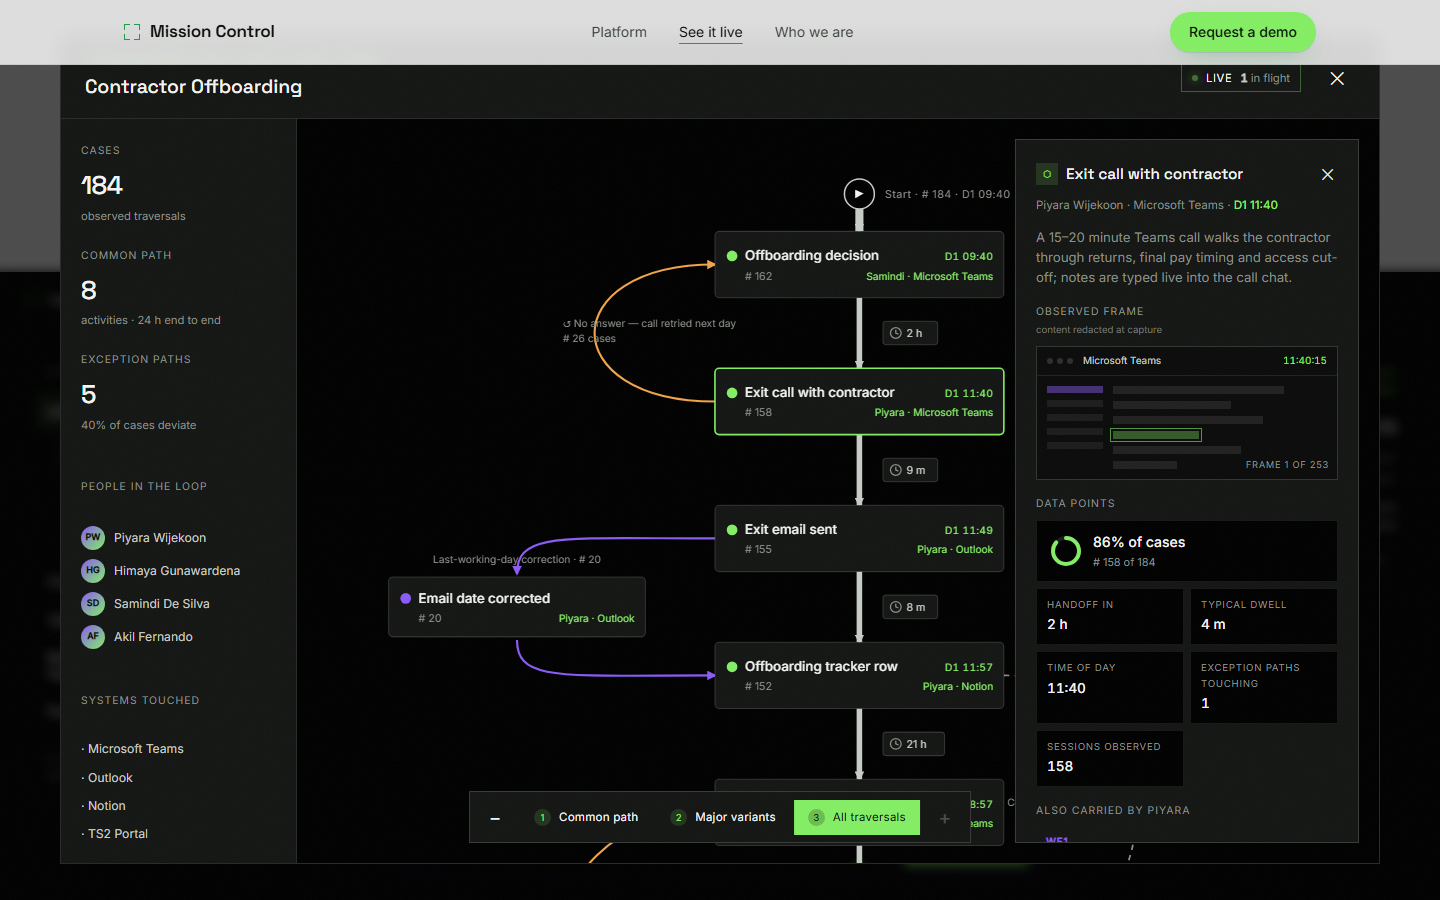
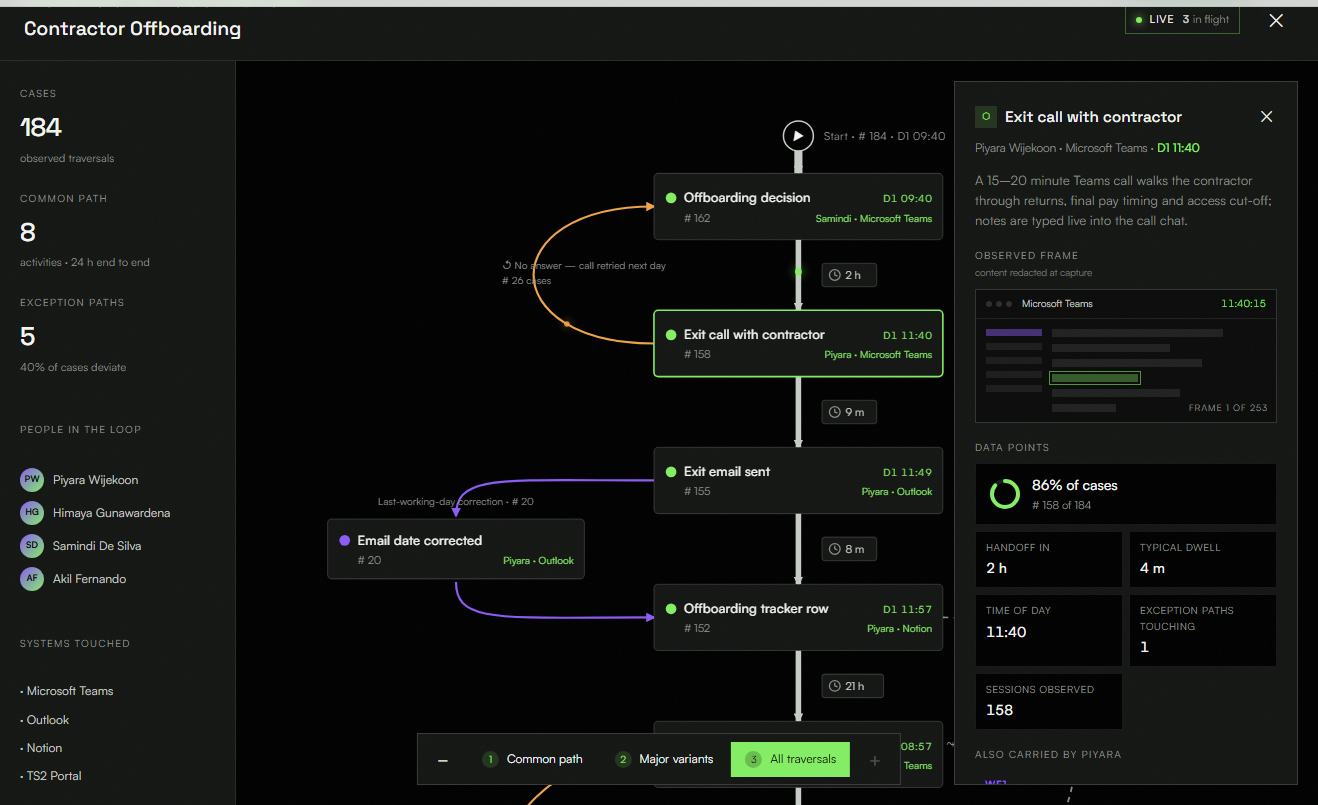
Round-13 evaluator fixes
- Lighthouse beam relit (brighter stops, a resting second beam, lamp glow);
  lamp is round
- Preview is a clean product frame with no site nav in it
- Hero window carries a small key; department discs match across both maps
- Deep-dive: bridge captions and role/tool labels join the collision pass
- Problem-card annotation moved off the tool boxes; Platform dead bands closed
- Scan scene names real systems and draws the hand-offs between them;
  "predicted deviation" no longer clips at the panel edge
- Founder photos vignette into the paper card
- See it live sub-line always shown

diff --git a/src/styles.css b/src/styles.css
@@ -197,8 +197,9 @@ body[data-view] main, body[data-view] footer { display: none; }
 }
 .view-back:hover { color: var(--accent-deep); }
 .view-foot { border-top: 1px solid var(--border); padding: 40px 0 64px; text-align: center; }
-#platform .platform-block:first-child { border-top: 0; padding-top: 48px; }
-#platform #trust { margin-top: 40px; }
+#platform .platform-block:first-child { border-top: 0; padding-top: 16px; }
+#platform .view-head .section-sub { margin-bottom: 0; }
+#platform #trust { margin-top: 8px; padding-top: var(--sec-pad-tight); }
 #about.view .story { margin-top: 0; }
 #about.view .view-foot { margin-top: 0; }
 
@@ -483,13 +484,16 @@ body[data-view] main, body[data-view] footer { display: none; }
 .beam-wrap { position: absolute; left: 50%; top: 34%; width: 0; height: 0; }
 .beam { position: absolute; left: 0; top: 0; width: 700px; height: 2px; transform-origin: 0 50%; animation: beam-rotate 9s linear infinite; }
 .beam::before {
-  content: ""; position: absolute; inset: -60px 0;
+  content: ""; position: absolute; inset: -80px 0;
   background: conic-gradient(from 90deg at 0% 50%,
-    transparent 0deg, rgba(132,238,100,0) 160deg, rgba(132,238,100,0.35) 172deg,
-    rgba(217,72,174,0.45) 178deg, rgba(139,92,246,0.55) 181deg, rgba(64,209,190,0.4) 186deg,
-    rgba(132,238,100,0.2) 194deg, transparent 202deg);
+    transparent 0deg, rgba(132,238,100,0) 150deg, rgba(132,238,100,0.55) 170deg,
+    rgba(217,72,174,0.6) 178deg, rgba(139,92,246,0.8) 181deg, rgba(64,209,190,0.6) 186deg,
+    rgba(132,238,100,0.35) 198deg, transparent 212deg);
 }
-.beam::after { content: ""; position: absolute; left: -40px; top: -40px; width: 80px; height: 80px; border-radius: 50%; background: radial-gradient(circle, rgba(132,238,100,0.5), transparent 70%); }
+.beam::after { content: ""; position: absolute; left: -60px; top: -60px; width: 120px; height: 120px; border-radius: 50%; background: radial-gradient(circle, rgba(132,238,100,0.7), transparent 70%); }
+/* a second, resting beam so there is always light in frame */
+.beam-wrap::after { content: ""; position: absolute; left: 0; top: 0; width: 700px; height: 2px; transform: rotate(150deg); transform-origin: 0 50%; box-shadow: 0 0 60px 24px rgba(132,238,100,0.18), 0 0 120px 40px rgba(139,92,246,0.12); }
+.lighthouse-stage::before { content: ""; position: absolute; inset: auto 0 0 0; height: 60%; background: radial-gradient(ellipse 60% 70% at 50% 100%, rgba(132,238,100,0.22), transparent 70%); pointer-events: none; }
 @keyframes beam-rotate { to { transform: rotate(360deg); } }
 .monolith {
   position: relative; width: 86px; height: 66%;
@@ -500,8 +504,8 @@ body[data-view] main, body[data-view] footer { display: none; }
   border: 1px solid rgba(255,255,255,0.18); border-bottom: 0;
 }
 .monolith::before {
-  content: ""; position: absolute; top: -7px; left: 50%; width: 10px; height: 10px; transform: translateX(-50%);
-  background: var(--accent-bright); box-shadow: 0 0 18px 4px rgba(132,238,100,0.55); animation: lamp-pulse 3s ease-in-out infinite;
+  content: ""; position: absolute; top: -8px; left: 50%; width: 12px; height: 12px; border-radius: 50%; transform: translateX(-50%);
+  background: var(--accent-bright); box-shadow: 0 0 22px 6px rgba(132,238,100,0.65); animation: lamp-pulse 3s ease-in-out infinite;
 }
 @keyframes lamp-pulse { 50% { box-shadow: 0 0 26px 8px rgba(132,238,100,0.75); } }
 .lighthouse-caption { position: absolute; left: 24px; bottom: 20px; font-size: 1.24rem; max-width: 16ch; line-height: 1.28; font-family: var(--font-display); color: #dfe3dc; z-index: 2; }
@@ -693,7 +697,6 @@ body[data-view] main, body[data-view] footer { display: none; }
 #try .try-head .section-h { max-width: 32ch; min-height: 1.1em; font-size: clamp(1.2rem, 1.9vw, 1.6rem); margin-bottom: 4px; }
 #try .try-head .section-sub { max-width: 96ch; min-height: 2.8em; font-size: 0.82rem; line-height: 1.4; } /* reserves two lines so the typed text never reflows the atlas */
 #try .try-head .view-back { align-self: center; margin-bottom: 4px; font-size: 0.74rem; }
-@media (max-height: 760px) { #try .try-head .section-sub, #try .try-head .view-back { display: none; } }
 .tw-caret { display: inline-block; width: 2px; height: 0.95em; background: var(--accent); margin-left: 3px; vertical-align: -0.12em; animation: tw-blink 0.9s steps(1) infinite; }
 @keyframes tw-blink { 50% { opacity: 0; } }
 .villain-card h3 { font-size: 1.35rem; color: var(--text-hi); }
@@ -712,6 +715,10 @@ body[data-view] main, body[data-view] footer { display: none; }
 .module-panel .panel-tag i { width: 6px; height: 6px; border-radius: 50%; background: var(--accent-bright); box-shadow: 0 0 8px var(--accent-bright); animation: atlas-pulse 2.2s infinite; }
 .module-panel .panel-hint { position: absolute; top: 16px; right: 18px; font-size: 0.7rem; color: var(--text-lo); pointer-events: none; }
 .module-panel .preview-btn { bottom: 18px; }
+/* a tiny key along the window's bottom edge */
+.panel-key { position: absolute; left: 18px; bottom: 14px; display: flex; gap: 14px; font-size: 0.66rem; color: var(--text-lo); letter-spacing: 0.03em; pointer-events: none; }
+.panel-key span { display: inline-flex; align-items: center; gap: 6px; }
+.panel-key i { width: 8px; height: 8px; border-radius: 50%; display: inline-block; }
 .module-copy .section-h { margin-bottom: 14px; }
 .module-copy .lede { font-size: 1.05rem; color: var(--text-mid); margin-bottom: 26px; max-width: 44ch; }
 
@@ -762,12 +769,16 @@ body[data-view] main, body[data-view] footer { display: none; }
   border: 1px solid var(--border-strong);
   background: var(--bg-2);
 }
+.team-photo { border: 0; background: transparent; }
 .team-photo img {
   display: block;
   width: 100%; height: 100%;
   object-fit: cover;
   object-position: 50% 14%;
   filter: saturate(0.9);
+  /* studio-black backgrounds fade into the paper card instead of sitting as a dark slab */
+  -webkit-mask-image: radial-gradient(ellipse 78% 86% at 50% 42%, #000 58%, transparent 100%);
+  mask-image: radial-gradient(ellipse 78% 86% at 50% 42%, #000 58%, transparent 100%);
 }
 .team-copy h4 { font-family: var(--font-display); font-size: 1.2rem; font-weight: 500; margin: 6px 0 4px; }
 .team-role { font-size: 0.75rem; letter-spacing: 0.12em; text-transform: uppercase; color: var(--accent-deep); margin-bottom: 14px; }

diff --git a/src/main.js b/src/main.js
@@ -294,9 +294,9 @@ const ease = (t) => 1 - Math.pow(1 - Math.min(Math.max(t, 0), 1), 3);
   const OFFPATH = [[1,4],[3,6],[6,7],[5,9]];
 
   const workPanels = [
-    { x: 0.04, y: 0.08, w: 0.4, h: 0.84, name: 'intake email · 2m' },
-    { x: 0.5, y: 0.08, w: 0.46, h: 0.4, name: 'matter opened' },
-    { x: 0.5, y: 0.56, w: 0.46, h: 0.36, name: 'draft v3' },
+    { x: 0.04, y: 0.08, w: 0.4, h: 0.84, name: 'Outlook · intake email · 2 m' },
+    { x: 0.5, y: 0.08, w: 0.46, h: 0.4, name: 'Clio · matter opened · 9 m' },
+    { x: 0.5, y: 0.56, w: 0.46, h: 0.36, name: 'Word · draft v3 · 41 m' },
   ];
 
   function nodePos(i, W, H, pad = 34) {
@@ -352,7 +352,7 @@ const ease = (t) => 1 - Math.pow(1 - Math.min(Math.max(t, 0), 1), 3);
         ctx.fillRect(x + 12, y + 14 + li * 22, w * (0.5 + ((li * 37) % 40) / 100), 6);
       }
     }
-    // brackets snap on sequentially
+    // brackets snap on sequentially, and the hand-offs between systems are drawn as arcs
     workPanels.forEach((pl, i) => {
       const appear = ease(p * 3.2 - i * 0.9);
       if (appear <= 0) return;
@@ -360,6 +360,14 @@ const ease = (t) => 1 - Math.pow(1 - Math.min(Math.max(t, 0), 1), 3);
       const inset = (1 - appear) * 12;
       bracket(ctx, x - 6 + inset, y - 6 + inset, w + 12 - inset * 2, h + 12 - inset * 2, 12, C.accent, appear);
       if (appear > 0.9) label(ctx, pl.name, x + 2, y - 12, C.accent, 10);
+      if (i > 0 && appear > 0.9) {
+        const prev = workPanels[i - 1];
+        const x0 = (prev.x + prev.w) * W, y0 = (prev.y + prev.h / 2) * H, x1 = x, y1 = y + h / 2;
+        ctx.strokeStyle = C.accent; ctx.setLineDash([4, 5]); ctx.lineDashOffset = -t * 20; ctx.globalAlpha = 0.7;
+        ctx.beginPath(); ctx.moveTo(x0, y0); ctx.bezierCurveTo(x0 + 24, y0, x1 - 24, y1, x1, y1); ctx.stroke();
+        ctx.setLineDash([]); ctx.globalAlpha = 1;
+        label(ctx, 'hand-off', (x0 + x1) / 2, (y0 + y1) / 2 - 6, C.lo, 9, 'center');
+      }
     });
     // scan beam
     const bx = ((t * 0.14) % 1.3 - 0.15) * W;
@@ -728,9 +736,10 @@ if (analyzeCanvas) driveCanvas(analyzeCanvas, (ctx, W, H, t) => {
     ctx.fillStyle = on ? C.accent : C.mid;
     ctx.beginPath(); ctx.arc(x, y, on ? 4.5 : 3, 0, Math.PI * 2); ctx.fill();
   });
-  // predicted deviation
+  // predicted deviation (drawn to the left when there's no room on the right)
   const [ax, ay] = pos(10);
-  const gx = ax + 30, gy = ay + 56;
+  const gx = ax + 30 + 150 > W ? ax - 40 : ax + 30, gy = ay + 56;
+  const labelLeft = gx < ax;
   const pulse = 0.4 + 0.3 * Math.sin(t * 2.6);
   ctx.strokeStyle = C.amber;
   ctx.setLineDash([3, 5]);
@@ -739,7 +748,7 @@ if (analyzeCanvas) driveCanvas(analyzeCanvas, (ctx, W, H, t) => {
   ctx.setLineDash([]);
   ctx.globalAlpha = 1;
   bracket(ctx, gx - 13, gy - 13, 26, 26, 7, C.amber, 0.4 + pulse * 0.6);
-  label(ctx, 'predicted deviation', gx + 20, gy + 4, C.amber, 10);
+  label(ctx, 'predicted deviation', labelLeft ? gx - 20 : gx + 20, gy + 4, C.amber, 10, labelLeft ? 'right' : 'left');
   // fork stat
   const [fx, fy] = pos(3);
   label(ctx, '87% follow the common path', fx - 4, fy + 24, C.mid, 10.5);

diff --git a/src/atlas.js b/src/atlas.js
@@ -191,10 +191,13 @@ export function initAtlas(root) {
       const hit = document.createElementNS(SVGNS, 'circle');
       hit.setAttribute('class', 'hitc'); hit.setAttribute('r', Math.max(n.r + 12, 18));
       const c = document.createElementNS(SVGNS, 'circle'); c.setAttribute('r', n.r);
+      if (n.kind === 'dept') { const core = document.createElementNS(SVGNS, 'circle'); core.setAttribute('class', 'core'); core.setAttribute('r', 6); g.appendChild(core); }
       const t = document.createElementNS(SVGNS, 'text');
       t.setAttribute('text-anchor', 'middle'); t.setAttribute('dy', n.kind === 'dept' ? n.r + 20 : n.r + 13);
       t.textContent = n.kind === 'wf' || n.kind === 'dept' ? n.label : n.label.split(' ')[0];
-      g.append(hit, c, t);
+      g.append(hit, c);
+      if (n.kind === 'dept') g.appendChild(g.querySelector('.core'));
+      g.appendChild(t);
       nodeLayer.appendChild(g);
       n.el = g;
 
@@ -376,16 +379,27 @@ export function initAtlas(root) {
       const w = d.el.querySelector('text').getComputedTextLength() + 12 * s;
       return { x: d.x - w / 2, y: d.y - d.r - 4 * s, w, h: d.r * 2 + 30 * s };
     });
+    // bridge captions ("→ Compliance & ISO · shared beyond this view") are reserved too
+    graph.bridges.forEach((b) => {
+      const w = Math.max(...[...b.label.querySelectorAll('tspan')].map((ts) => ts.getComputedTextLength())) + 10 * s;
+      const m = /translate\(([-\d.]+),([-\d.]+)\)/.exec(b.label.getAttribute('transform') || '');
+      if (!m) return;
+      const anchor = b.label.getAttribute('text-anchor');
+      const x = anchor === 'end' ? +m[1] - w : anchor === 'middle' ? +m[1] - w / 2 : +m[1];
+      kept.push({ x, y: +m[2] - 12 * s, w, h: 30 * s });
+    });
+    const place = (n) => {
+      const t = n.el.querySelector('text');
+      const w = t.getComputedTextLength() + 8 * s, h = 15 * s;
+      const box = { x: n.x - w / 2, y: n.y + n.r + 2, w, h };
+      const hit = kept.some((k) => box.x < k.x + k.w && box.x + box.w > k.x && box.y < k.y + k.h && box.y + box.h > k.y);
+      n.el.classList.toggle('lbl-off', hit);
+      if (!hit) kept.push(box);
+    };
     graph.nodes.filter((n) => n.kind === 'wf' && !n.el.classList.contains('off'))
-      .sort((a, b) => b.neighbors.size - a.neighbors.size)
-      .forEach((n) => {
-        const t = n.el.querySelector('text');
-        const w = t.getComputedTextLength() + 8 * s, h = 15 * s;
-        const box = { x: n.x - w / 2, y: n.y + n.r + 2, w, h };
-        const hit = kept.some((k) => box.x < k.x + k.w && box.x + box.w > k.x && box.y < k.y + k.h && box.y + box.h > k.y);
-        n.el.classList.toggle('lbl-off', hit);
-        if (!hit) kept.push(box);
-      });
+      .sort((a, b) => b.neighbors.size - a.neighbors.size).forEach(place);
+    // in a deep-dive, role and tool labels are visible too — give them the same treatment
+    if (graph.inSet) graph.nodes.filter((n) => (n.kind === 'person' || n.kind === 'tool') && n.el.classList.contains('in')).forEach(place);
   }
 
   function runSim() {

diff --git a/index.html b/index.html
@@ -56,6 +56,12 @@
         <svg id="hero-graph" aria-label="A real firm's map: departments, workflows, roles and tools, with names removed" role="img"></svg>
         <div class="panel-tag"><i></i>A legal operations map · names masked</div>
         <div class="panel-hint" id="hero-hint">Drag · Hover</div>
+        <div class="panel-key" aria-hidden="true">
+          <span><i style="background:#fff;border:2px solid #1f9d45"></i>Department</span>
+          <span><i style="background:#7c3aed"></i>Workflow</span>
+          <span><i style="background:#fff;border:1.5px solid #39423a"></i>Role</span>
+          <span><i style="background:#d98a1e"></i>Tool</span>
+        </div>
       </div>
     </div>
   </section>
@@ -109,7 +115,7 @@
               <g id="hop-tools"></g>
               <g id="hop-trails"></g>
               <circle id="hop-dot" class="hop-dot" r="4" cx="40" cy="34" />
-              <text class="anno" x="10" y="128">6 tools · 9 jumps · 1 matter</text>
+              <text class="anno" x="10" y="10">6 tools · 9 jumps · 1 matter</text>
             </svg>
           </div>
           <h3>Most of it never gets written down</h3>

diff --git a/src/atlas.css b/src/atlas.css
@@ -117,6 +117,7 @@
 .g-node.dim { opacity: 0.16; }
 .g-node text { font-family: var(--font-body); fill: var(--text-mid); pointer-events: none; transition: opacity .25s; }
 .g-node.dept circle { fill: #0a1406; stroke: var(--accent); stroke-width: 1.5; animation: atlas-breathe 5s ease-in-out infinite; }
+.g-node.dept circle.core { fill: var(--accent); stroke: none; animation: none; } /* same disc as the hero map */
 @keyframes atlas-breathe {
   0%, 100% { filter: drop-shadow(0 0 8px rgba(132,238,100,0.3)); }
   50%      { filter: drop-shadow(0 0 20px rgba(132,238,100,0.65)); }
@@ -130,7 +131,7 @@
 .g-node.tool circle { fill: var(--amber); }
 .g-node.tool text { font-size: calc(9.5px * var(--zs, 1)); fill: rgba(240,164,74,0.8); }
 .g-node.person text, .g-node.tool text { opacity: 0; }
-.g-node.wf.lbl-off:not(:hover):not(.hl) text { opacity: 0; }
+.g-node.lbl-off:not(:hover):not(.hl) text { opacity: 0 !important; }
 .g-node.person.hl text, .g-node.tool.hl text, .g-node:hover text,
 #view-graph.focused .g-node.in.person text, #view-graph.focused .g-node.in.tool text { opacity: 1; }
 
